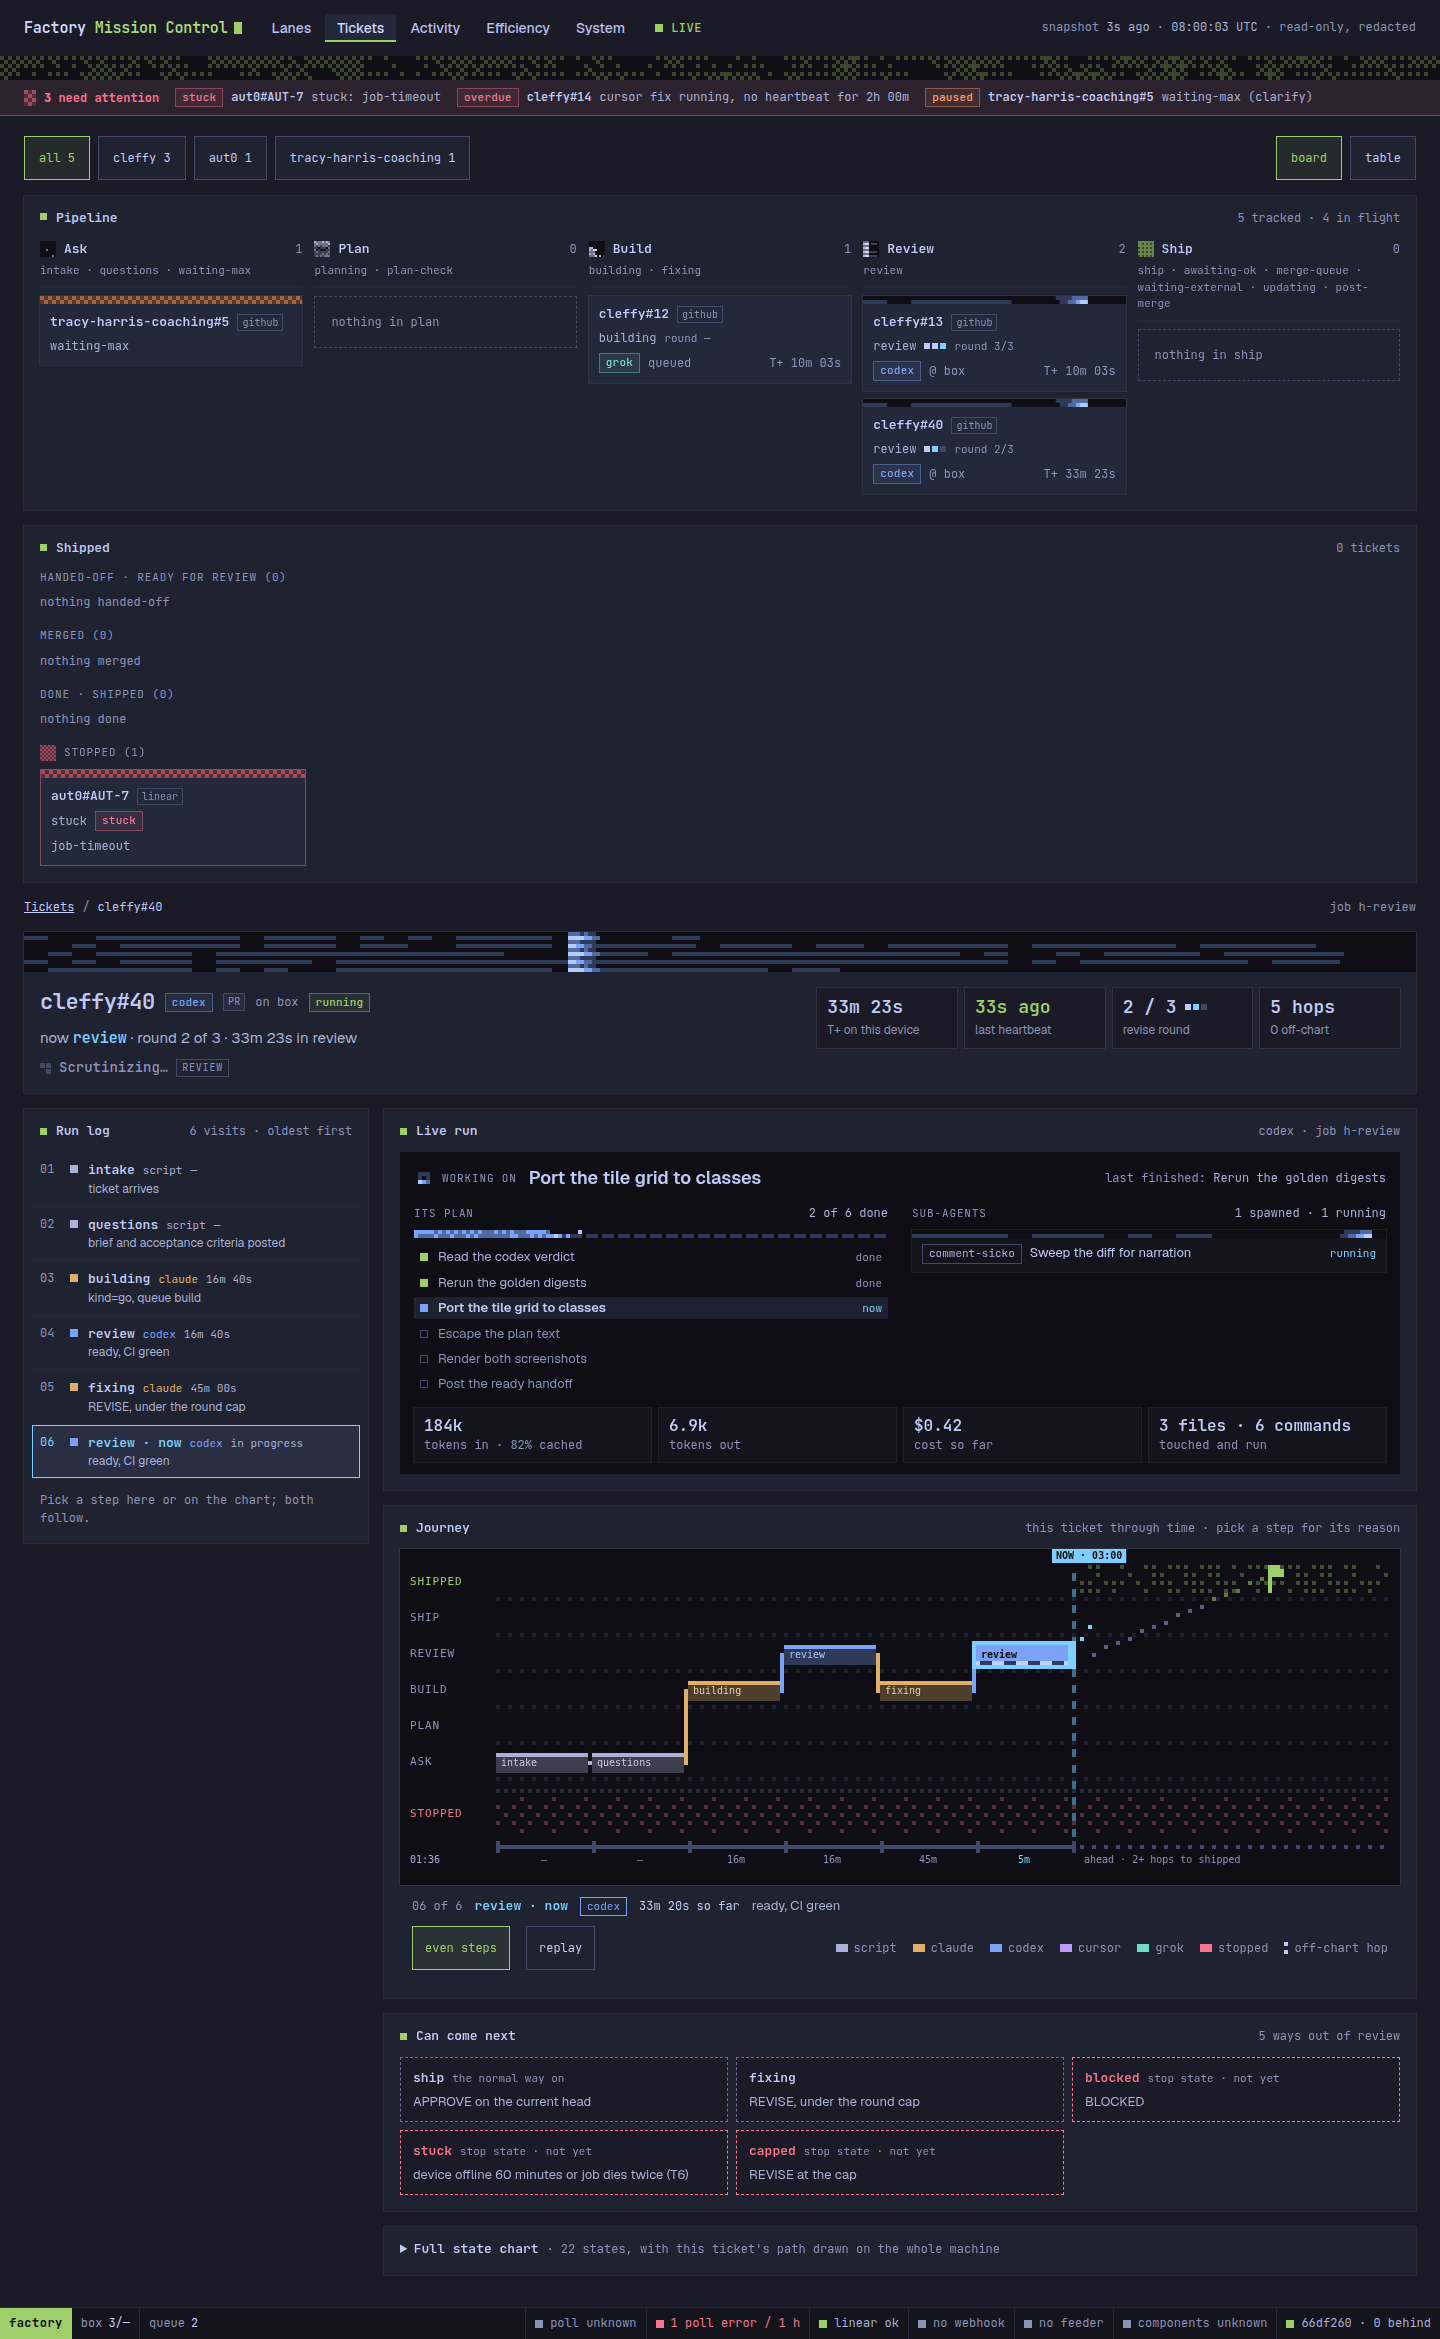
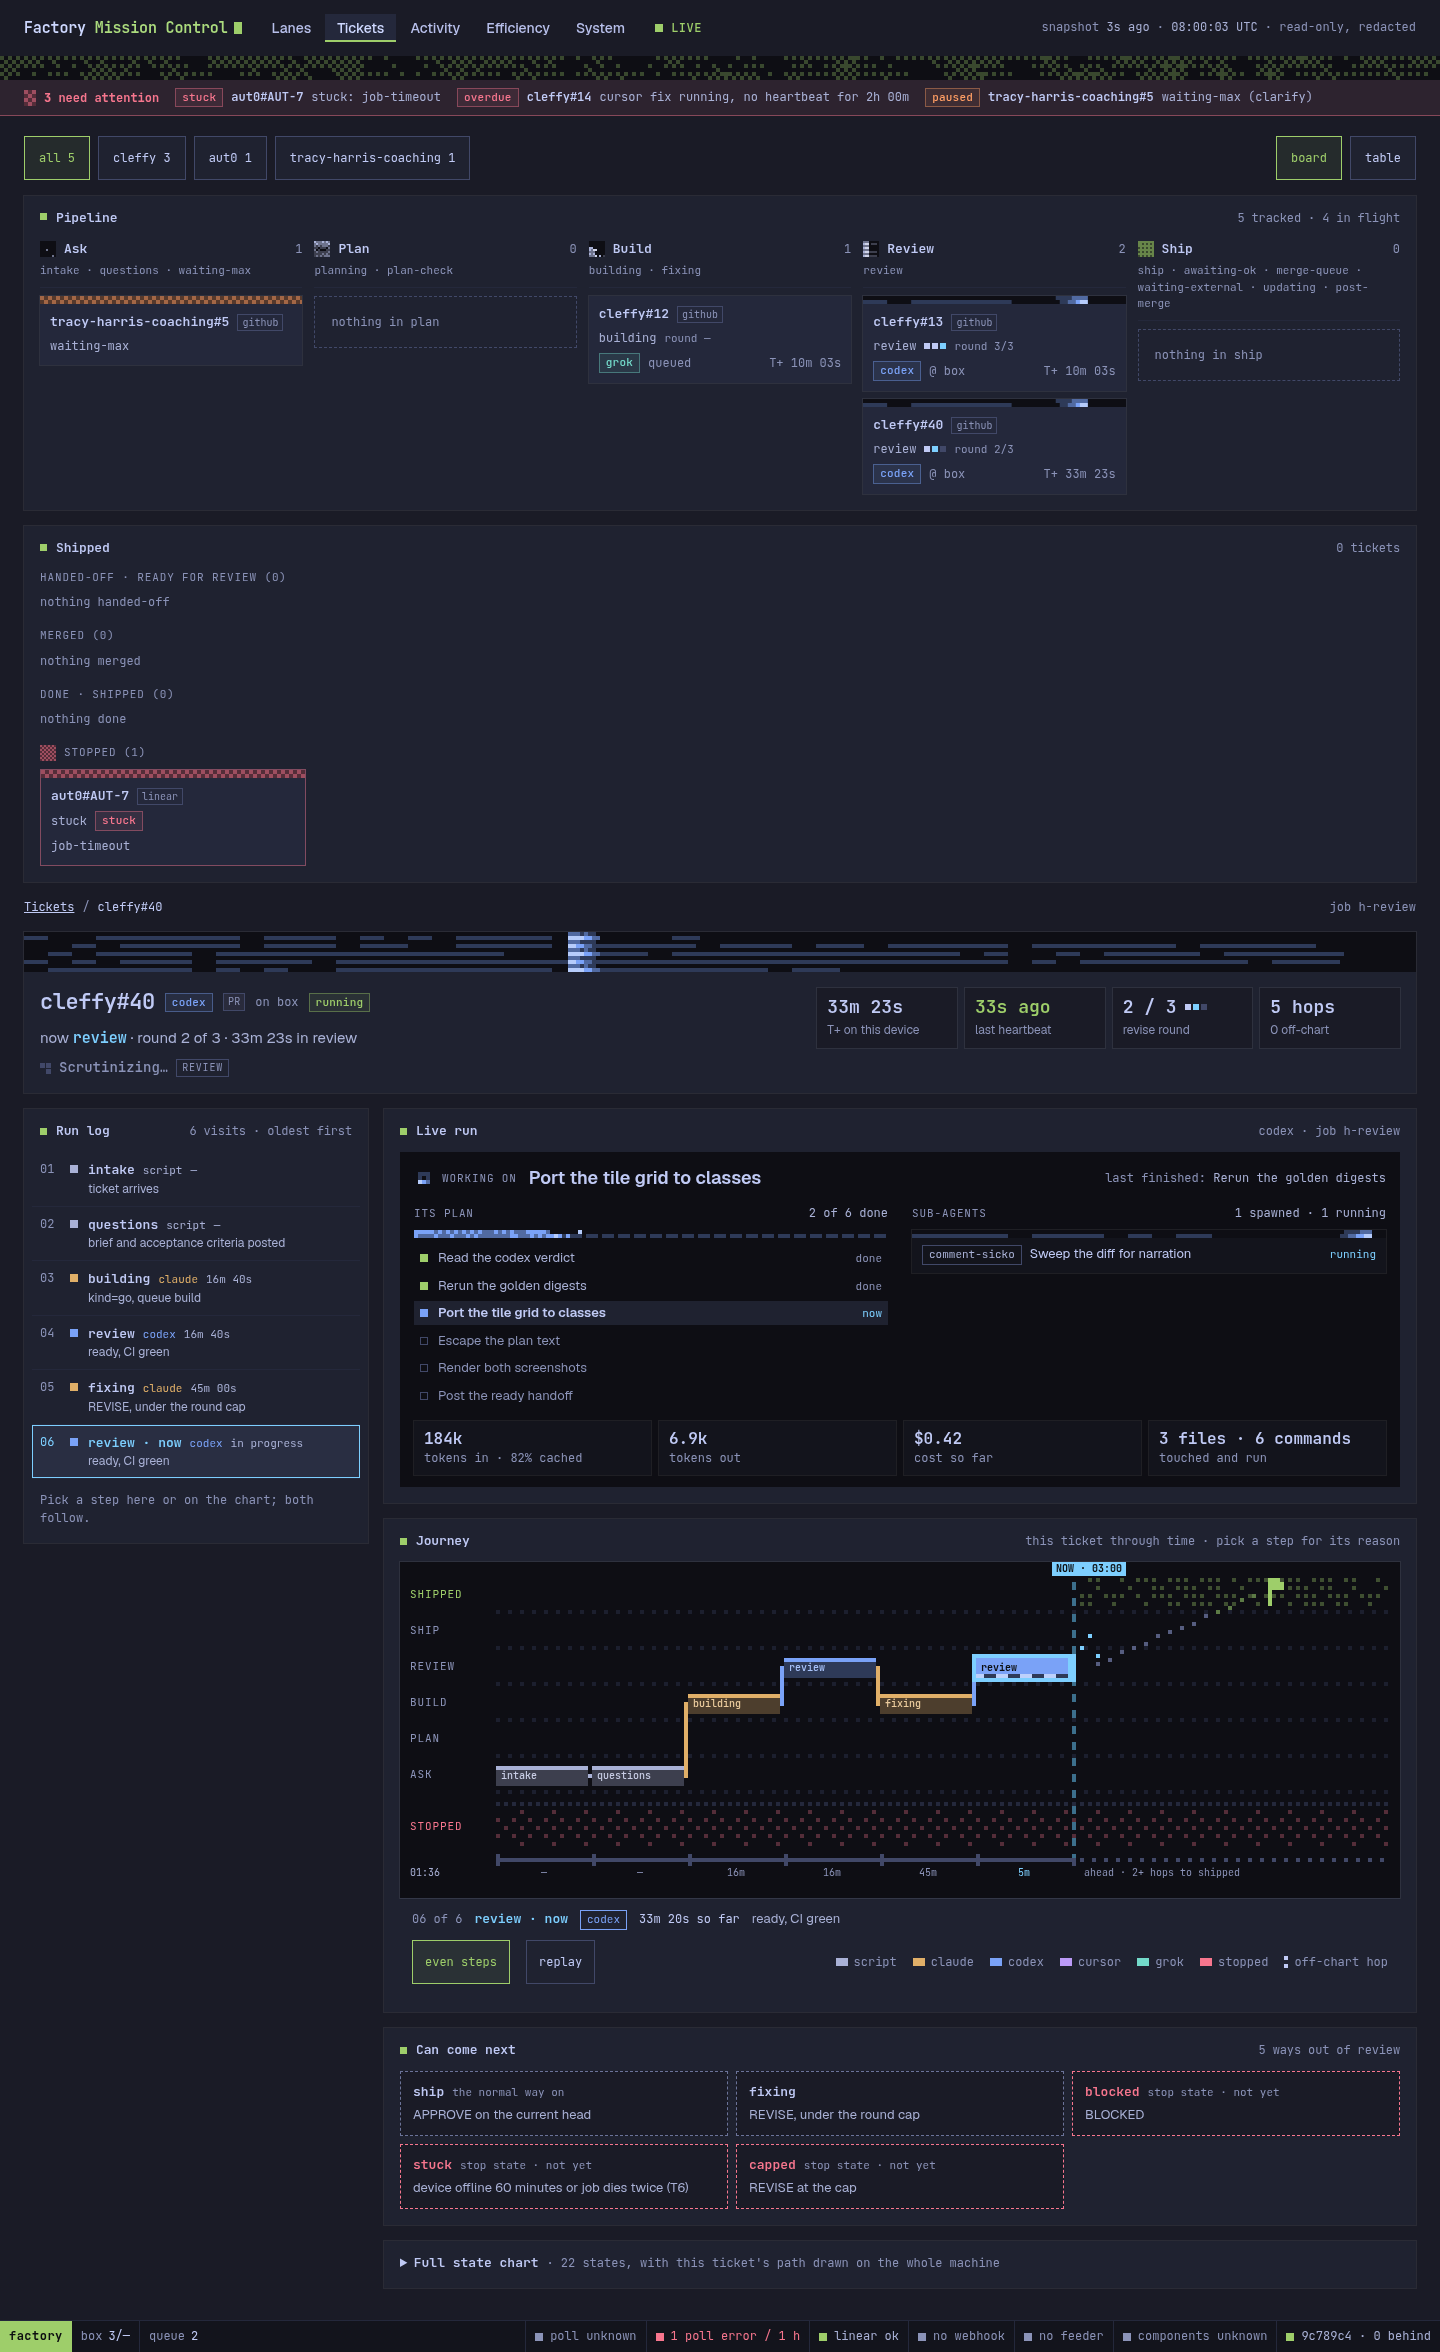
#149: fix(dashboard): keep the RunTape line height on live plan and agent text
The .lr-text and .lr-desc font shorthands reset the inherited
line-height:1.5 to normal, so plan rows and agent descriptions sat 2.5px
shorter than the artboard and the tiles rose 13.5px. Regenerate the
golden digests and the #149 screenshots.

diff --git a/tests/test_dashboard_pages_golden.py b/tests/test_dashboard_pages_golden.py
@@ -26,25 +26,25 @@ from tests.test_dashboard import NOW, make_db, seeded
 FACADE = Path(__file__).resolve().parent.parent / "lib" / "dashboard_page.py"
 
 GOLDEN = {
[35 lines of base64/hex data omitted]
 }
 
 NAMES = (

diff --git a/tests/test_dashboard_live_run.py b/tests/test_dashboard_live_run.py
@@ -212,6 +212,31 @@ def test_live_text_wraps_inside_the_panel_at_375px(tmp_path: Path) -> None:
         browser.close()
 
 
+ARTBOARD_LINE_HEIGHT = {"lr-task": 1.35, "lr-kind": 1.6, "lr-tile b": 1.25}
+
+
+@needs_chrome
+def test_live_text_keeps_the_artboard_line_heights(tmp_path: Path) -> None:
+    browser = Browser()
+    try:
+        browser.open(_page_with_status_stub(_snapshot(tmp_path, LIVE_ROW), "job.html"), 1440)
+        browser.eval("""new Promise(function (done) { location.hash = '#job-h-review'; (function wait() {
+          if (document.querySelector('#jobview .lr-desc')) done(true); else setTimeout(wait, 50); })(); })""")
+        rows = browser.eval("""[].filter.call(document.querySelectorAll('#jobview .lr *'), function (e) {
+            return [].some.call(e.childNodes, function (n) { return n.nodeType === 3 && n.data.trim(); });
+          }).map(function (e) {
+            var s = getComputedStyle(e), owner = e.closest('[class]');
+            var name = owner.className.split(' ')[0] + (owner === e ? '' : ' ' + e.localName);
+            return [name, s.lineHeight, parseFloat(s.fontSize)];
+          })""")
+    finally:
+        browser.close()
+    assert {"lr-text", "lr-desc", "lr-task", "lr-kind", "lr-tile b"} <= {cls for cls, _, _ in rows}
+    wrong = [(cls, height, size) for cls, height, size in rows
+             if height == "normal" or abs(float(height[:-2]) / size - ARTBOARD_LINE_HEIGHT.get(cls, 1.5)) > 0.01]
+    assert not wrong, wrong
+
+
 def test_compact_rounds_half_up_like_the_script() -> None:
     assert [compact(n) for n in (0, 999, 1000, 1250, 6890, 9999, 10000, 184321, 999499, 1_250_000)] == [
         "0", "999", "1.0k", "1.3k", "6.9k", "10.0k", "10k", "184k", "999k", "1.3M"]

diff --git a/lib/dashboard_pages/ticket_detail.py b/lib/dashboard_pages/ticket_detail.py
@@ -135,7 +135,7 @@ CSS = """\
 .lr-plan{margin:0;padding:0;list-style:none;display:flex;flex-direction:column;gap:4px}
 .lr-plan li{display:flex;align-items:baseline;gap:10px;padding:2px 6px}
 .lr-mark{flex:0 0 8px;height:8px;box-sizing:border-box;border:1px solid var(--line-hi)}
-.lr-text{flex:1 1 auto;min-width:0;font:400 13px var(--sans);color:var(--muted);overflow-wrap:anywhere}
+.lr-text{flex:1 1 auto;min-width:0;font:400 13px/1.5 var(--sans);color:var(--muted);overflow-wrap:anywhere}
 .lr-tag{font-size:11px;white-space:nowrap;color:var(--muted)}
 .lr-plan .done .lr-mark{background:var(--ok);border-color:var(--ok)}.lr-plan .done .lr-text{color:var(--text-2)}
 .lr-plan .now{background:var(--panel)}
@@ -145,7 +145,7 @@ CSS = """\
 .lr-agent{display:flex;flex-direction:column;background:var(--dim);box-shadow:var(--elev)}
 .lr-agent-body{display:flex;flex-wrap:wrap;align-items:baseline;gap:4px 8px;padding:6px 10px 8px}
 .lr-kind{min-width:0;padding:0 6px;border:1px solid var(--line-hi);color:var(--text-2);font-size:11px;line-height:1.6;overflow-wrap:anywhere}
-.lr-desc{flex:1 1 200px;min-width:0;font:13px var(--sans);color:var(--text);overflow-wrap:anywhere}
+.lr-desc{flex:1 1 200px;min-width:0;font:13px/1.5 var(--sans);color:var(--text);overflow-wrap:anywhere}
 .lr-status{font-size:11px;white-space:nowrap}
 .lr-status.running{color:var(--accent)}.lr-status.finished{color:var(--ok)}.lr-status.failed{color:var(--bad)}
 .lr-tiles{display:grid;grid-template-columns:repeat(4,minmax(0,1fr));gap:8px}
